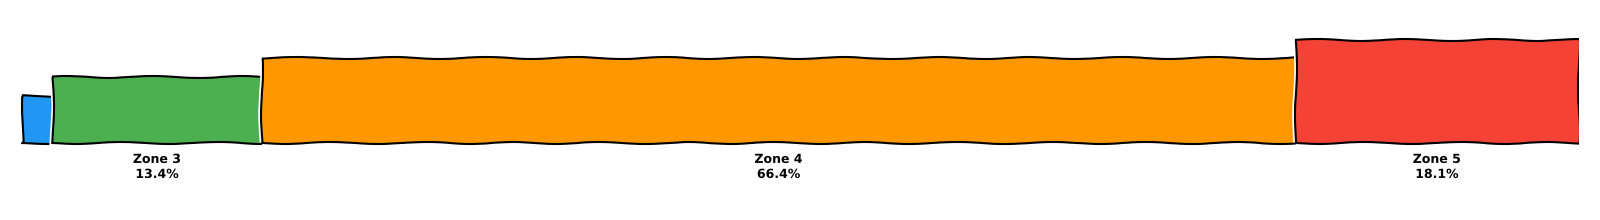
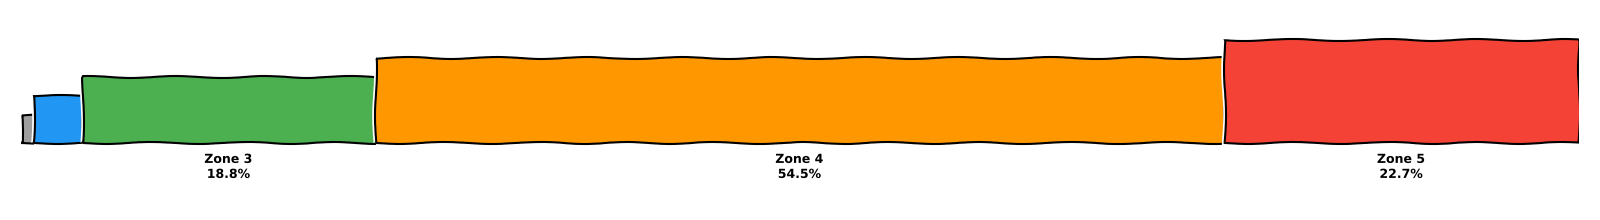
Auto-update Garmin stats and graphs

Changed region(s): [[0.0, 0.1636, 1.0, 0.8182], [0.0625, 0.6818, 0.1562, 0.8182], [0.8438, 0.7091, 0.9375, 0.8182]]

diff --git a/README.md b/README.md
@@ -2,8 +2,8 @@
 
 <!-- GARMIN_STATS:START -->
 ## Here what I last recorded on Garmin
-I last went road biking on 9 September 2026 in Hammersmith and Fulham.
-I was active for 1h 59m, focusing on VO2 max, and had an average heart rate of 172.
+I last went road biking yesterday in Hammersmith and Fulham.
+I was active for 49m, focusing on tempo training, and had an average heart rate of 171.
 
 ![Latest HR Zones](latest_hr_zones.png)
 <!-- GARMIN_STATS:END -->
